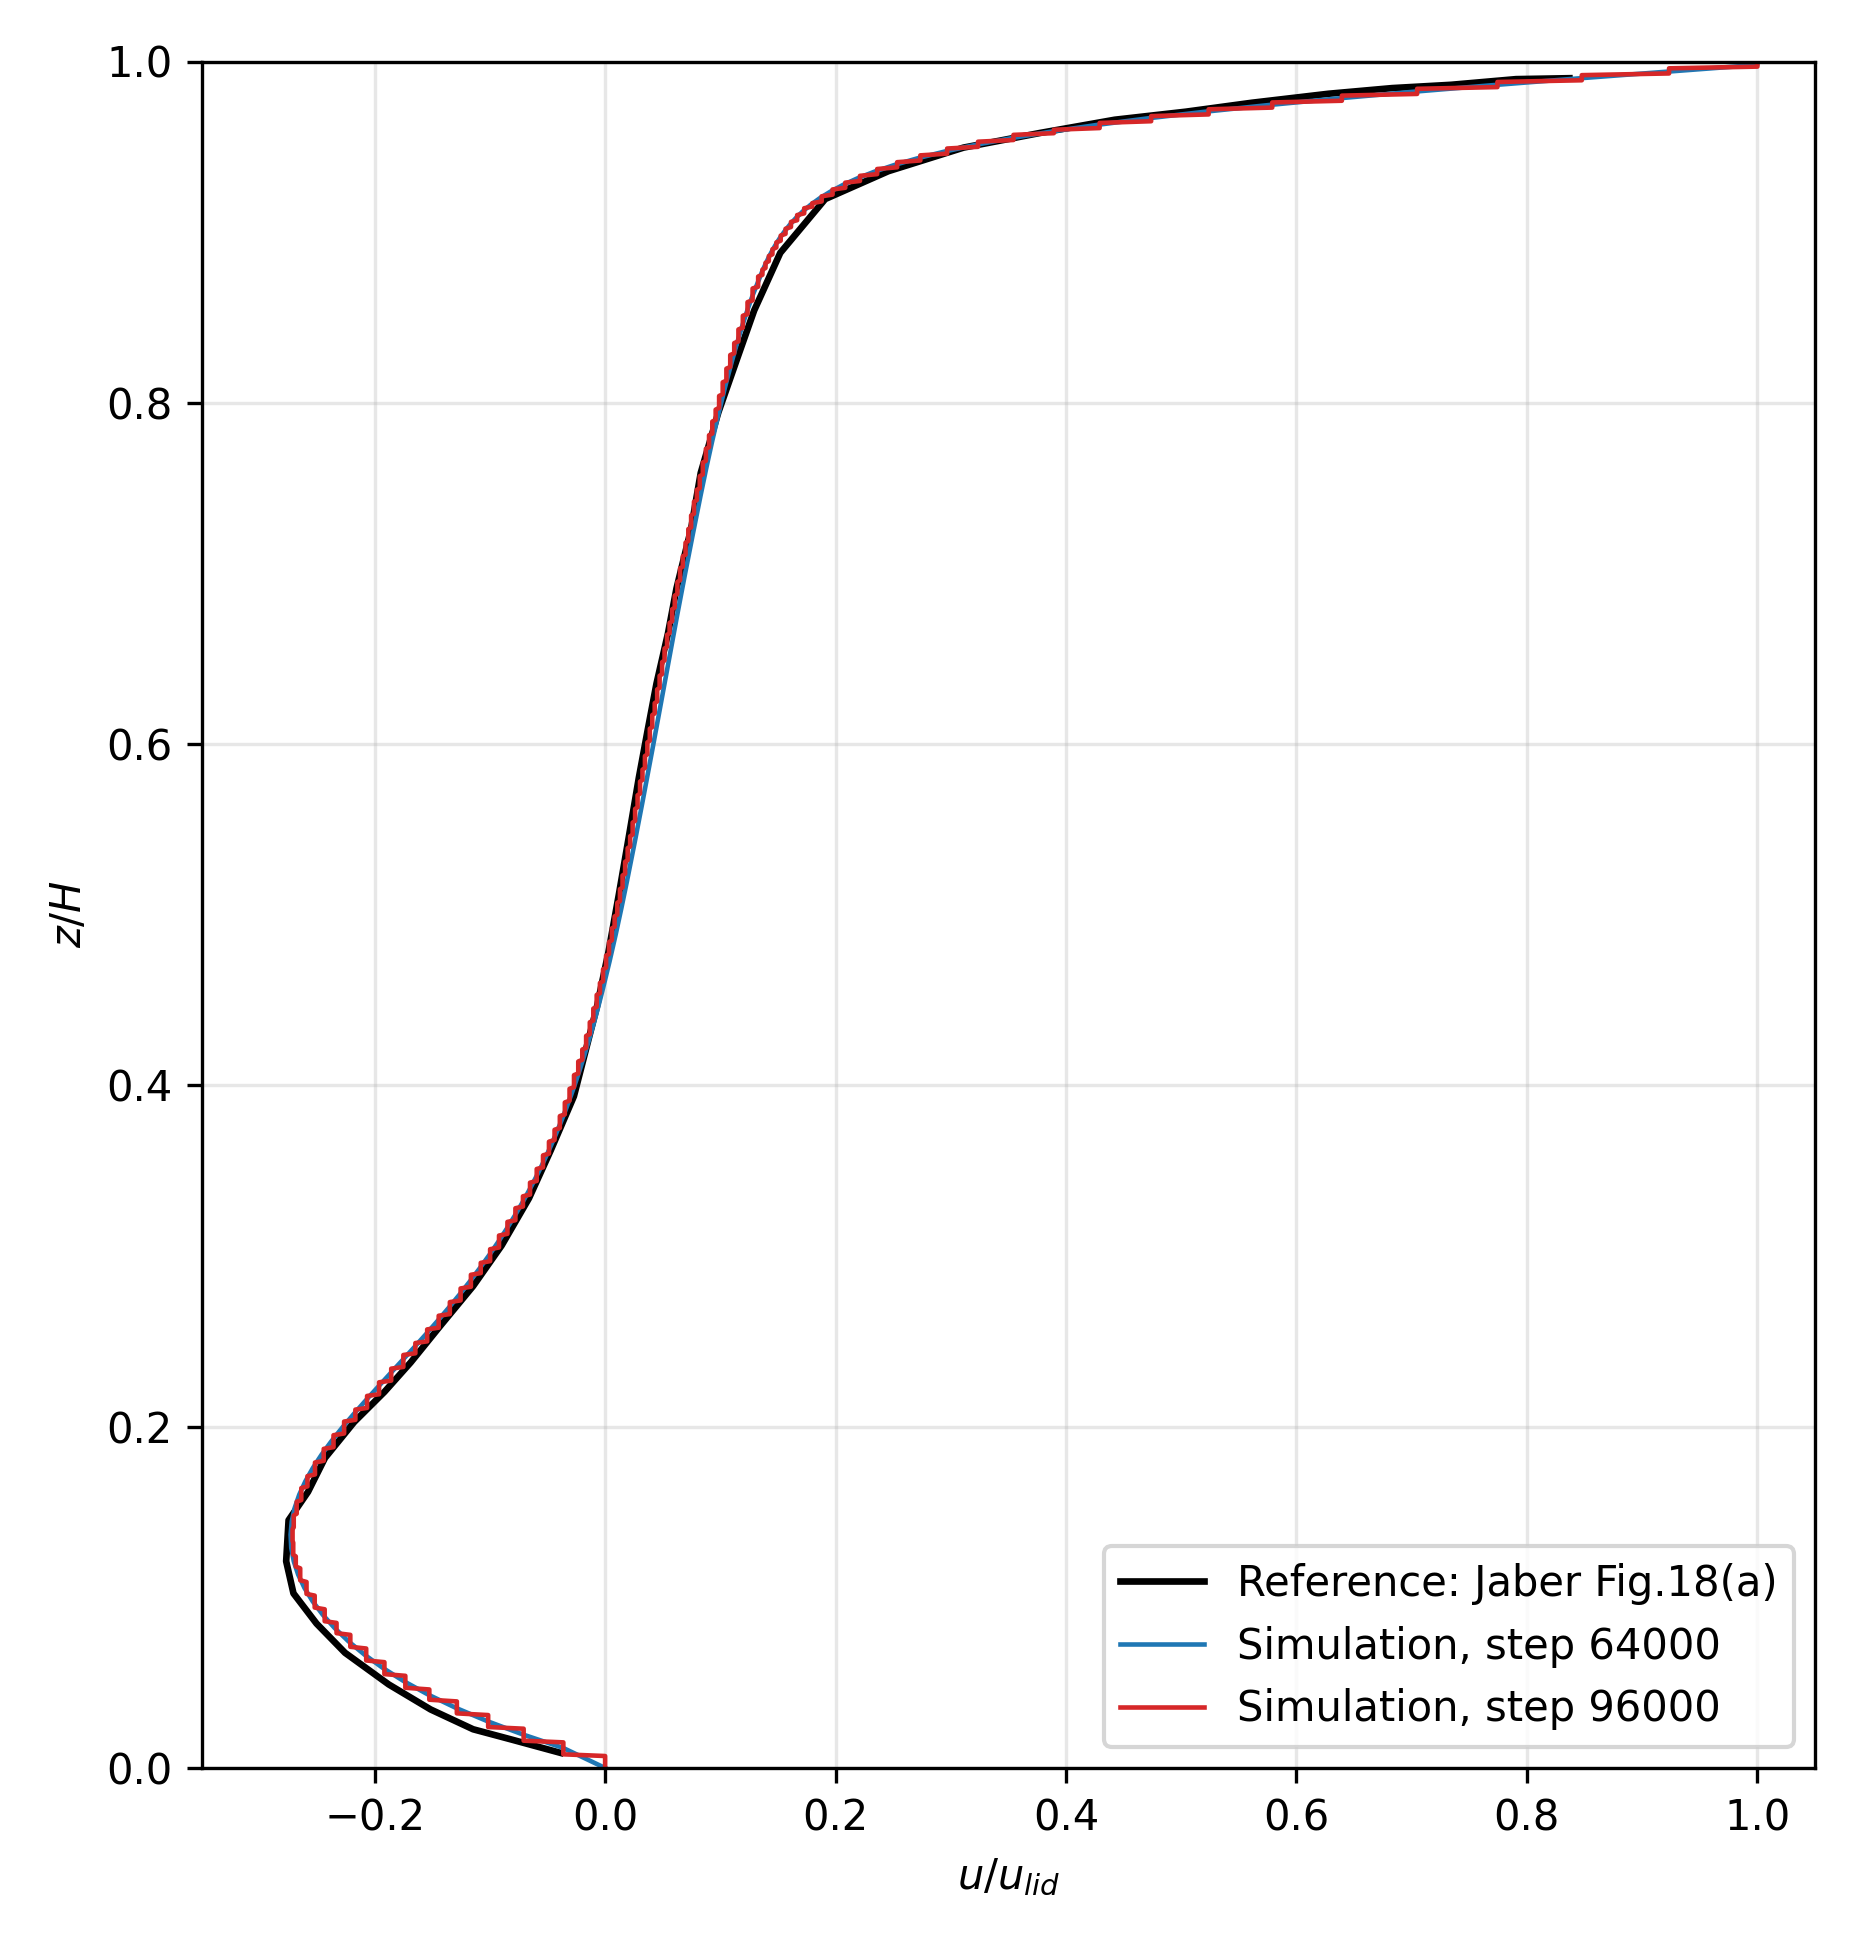
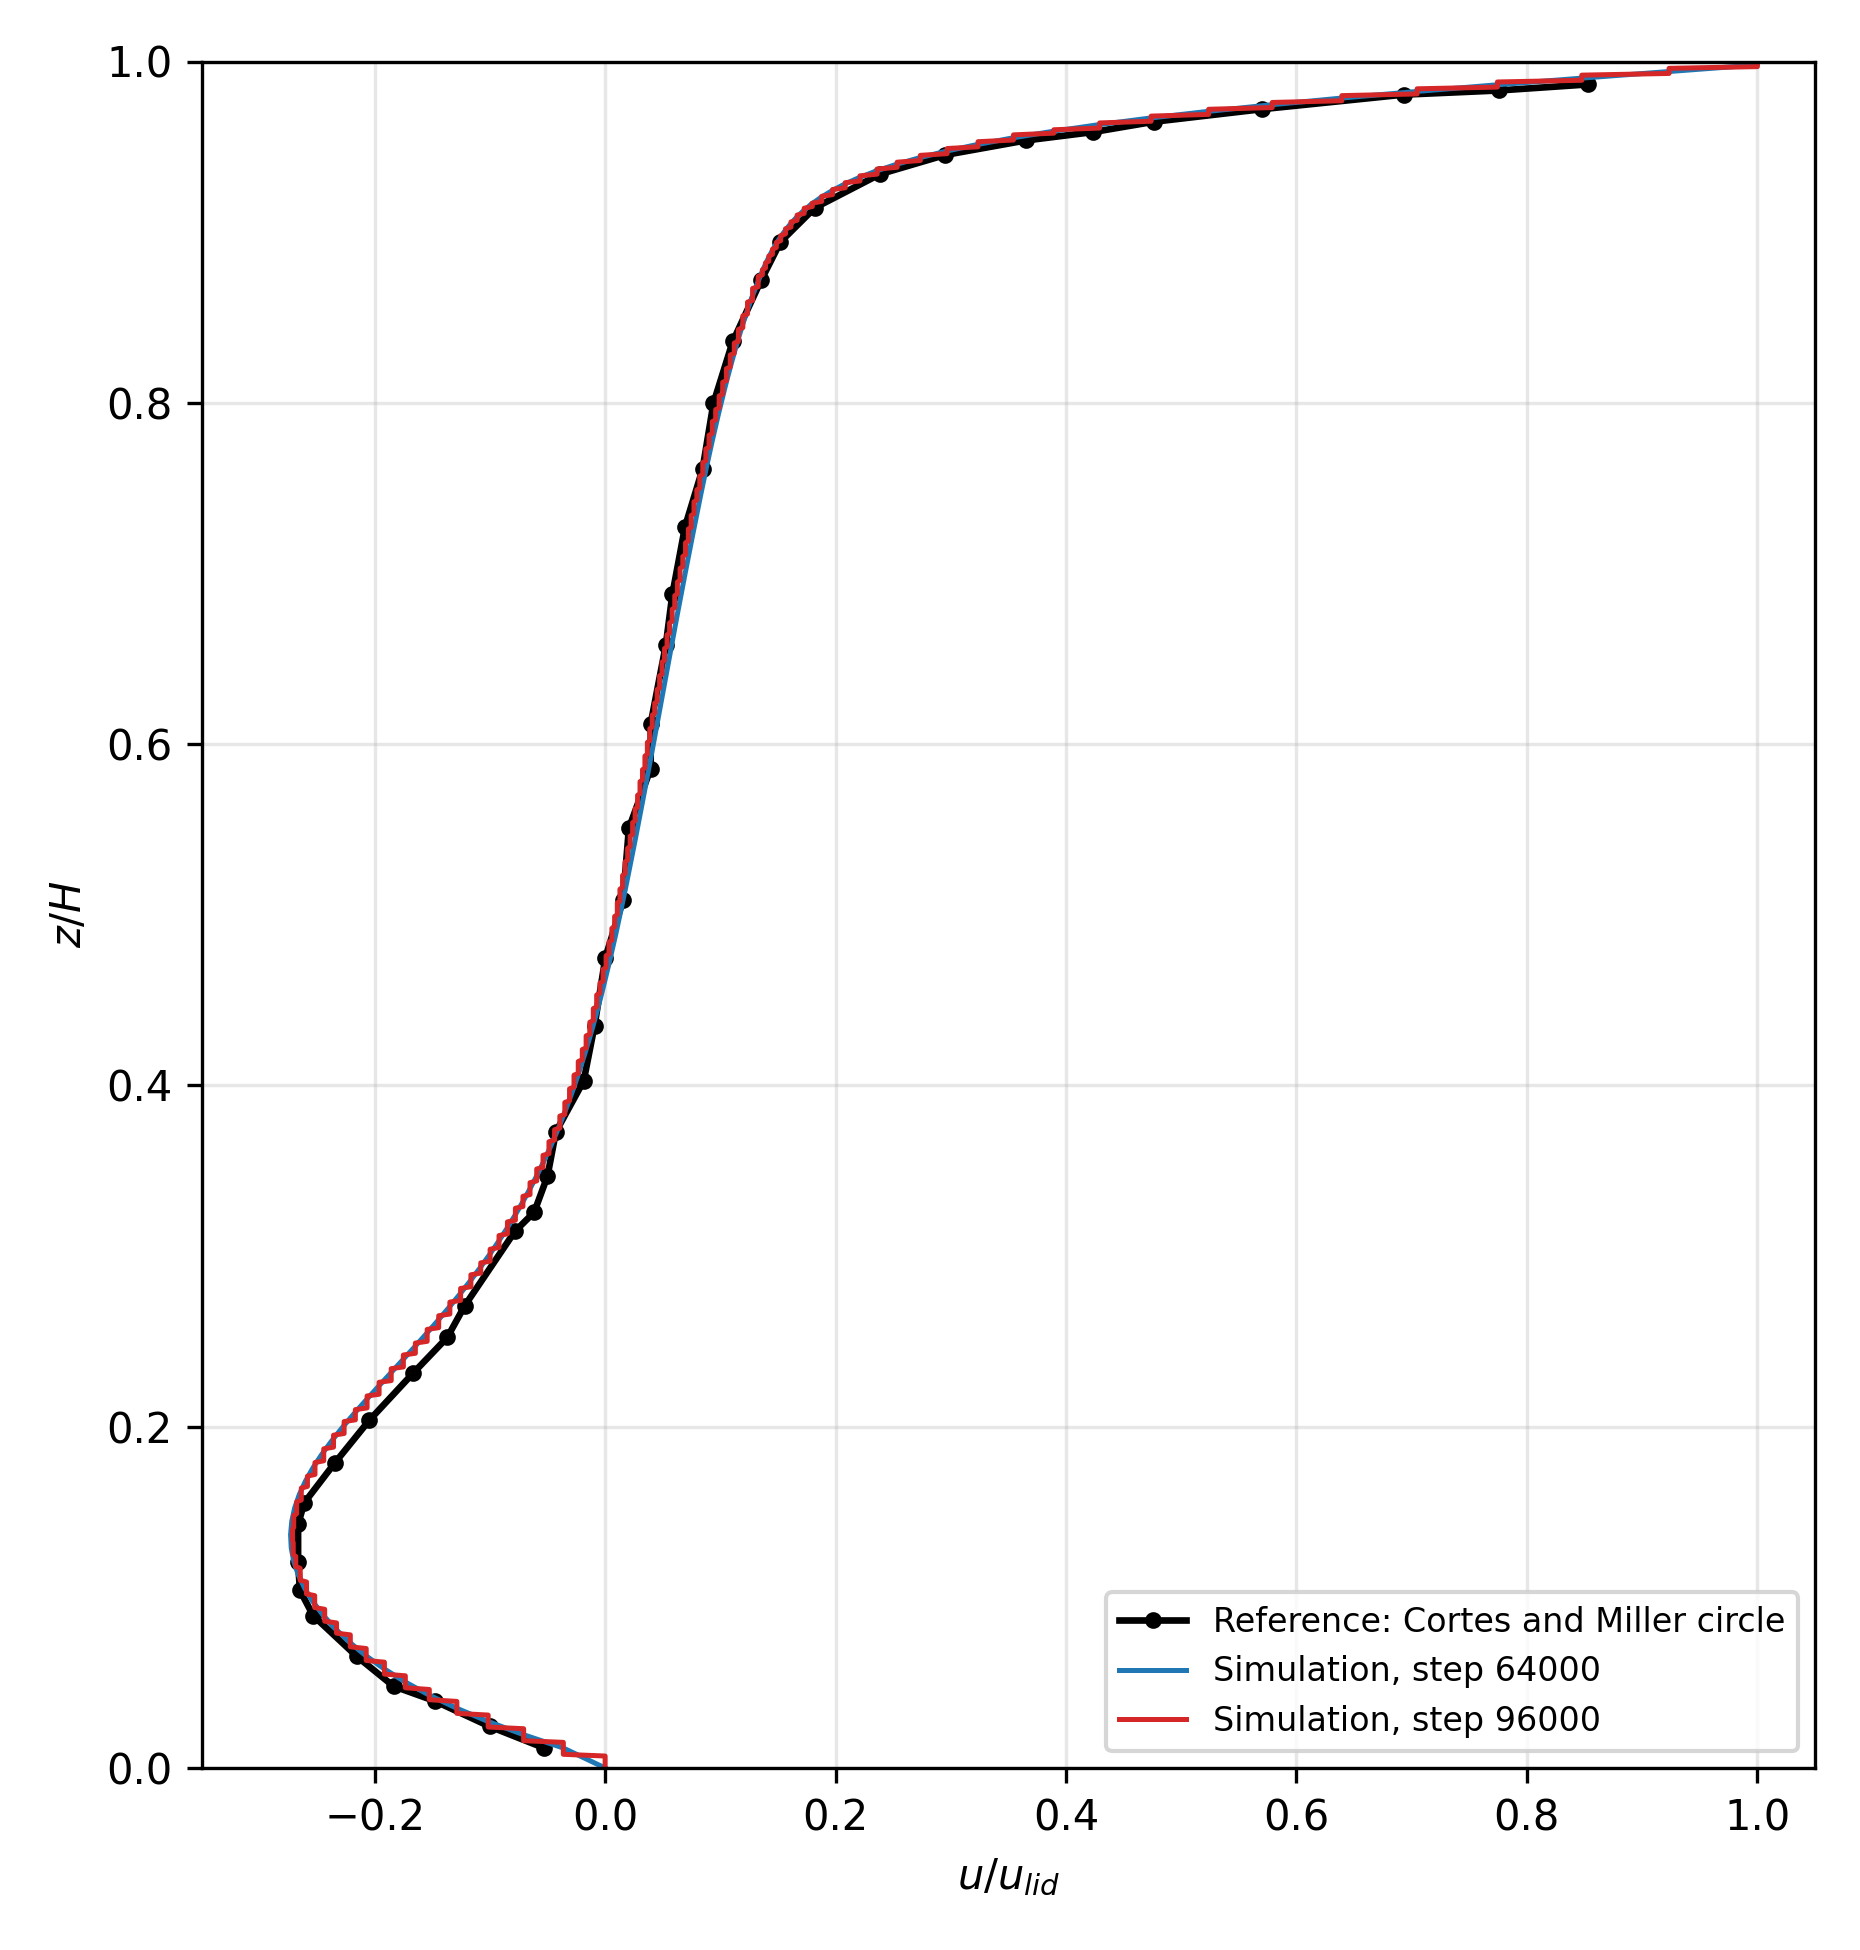
before codex

diff --git a/projects/3Dcases/Computing_performance_test/BOX3D_OSI/data_post_processing/compare_fig18a.py b/projects/3Dcases/Computing_performance_test/BOX3D_OSI/data_post_processing/compare_fig18a.py
@@ -1,0 +1,48 @@
+#!/usr/bin/env python3
+import csv
+from pathlib import Path
+
+import matplotlib.pyplot as plt
+
+HERE = Path(__file__).resolve().parent
+
+def read_manual():
+    with (HERE / "paper_fig18a.csv").open(newline="") as f:
+        rows = list(csv.DictReader(f))
+    return [(float(r["z_over_H"]), float(r["u_over_ulid"])) for r in rows]
+
+def read_machine():
+    out = {}
+    with (HERE / "fig18a_velocity_profiles.csv").open(newline="") as f:
+        for r in csv.DictReader(f):
+            out.setdefault(r["series"], []).append((float(r["z"]), float(r["u_over_ulid"])))
+    return {k: sorted(v) for k, v in out.items()}
+
+def interp(points, z):
+    for (z0, u0), (z1, u1) in zip(points, points[1:]):
+        if z0 <= z <= z1:
+            t = (z - z0) / (z1 - z0)
+            return u0 + t * (u1 - u0)
+    return None
+
+manual = sorted(read_manual())
+machine = read_machine()
+fig, ax = plt.subplots(figsize=(6, 6.5))
+ax.plot([u for z, u in manual], [z for z, u in manual], "k-", lw=1.8, label="Manual extraction")
+colors = {"AMR_triangle": "#d62728", "Cortes_and_Miller_circle": "#1f77b4"}
+for name, points in machine.items():
+    ax.scatter([u for z, u in points], [z for z, u in points], s=18, alpha=.8,
+               color=colors.get(name), label=f"Machine: {name} ({len(points)} pts)")
+    errors = []
+    for z, u in points:
+        ref = interp(manual, z)
+        if ref is not None:
+            errors.append(abs(u - ref))
+    print(f"{name}: n={len(points)}, MAE={sum(errors)/len(errors):.6g}, maxAE={max(errors):.6g}")
+ax.set_xlabel(r"$u/u_{lid}$")
+ax.set_ylabel(r"$z/H$")
+ax.set_xlim(-.35, 1.05); ax.set_ylim(0, 1)
+ax.grid(True, alpha=.3); ax.legend(fontsize=8); fig.tight_layout()
+out = HERE / "Re1000_fig18a_manual_vs_machine.png"
+fig.savefig(out, dpi=300)
+print(out)

diff --git a/CLAUDE.md b/CLAUDE.md
@@ -1,105 +1,34 @@
 # 本仓库的 AI 协作指南
 
-本仓库包含基于 AMReX 的 LBM + AMR 数值模拟算例。主要开发模式以算例为中心：大多数工作应在 `projects/` 下的具体算例目录中进行，而不是在仓库根目录进行。
+用户可见的仓库结构、典型算例布局、构建命令和 Python 后处理用法以根
+[`README.md`](README.md) 为准。本文件只定义 Agent 的执行约束。
 
-## 开始前请先阅读
+## 开始任务
 
-开始一项新任务时，请按以下顺序阅读文件：
+1. 阅读根 `README.md`，再定位目标算例。
+2. 依次阅读 `<case>/src/main.cpp`、`<case>/src/AmrCoreLBM.H/.cpp`、
+   `<case>/config/inputs` 和 `<case>/config/GNUmakefile`；涉及构建或提交时再读
+   `<case>/scripts/compile.sh` 或 `scripts/compile.sh`、`<case>/scripts/submit.sh`。
+3. 除非任务明确涉及多个算例，否则将改动限制在一个具体算例内。圆柱流默认算例是
+   `projects/Cylindertest/Cylinder2D_IDFtest/`。
 
-1. `README.md`
-2. `projects/` 下的目标算例目录
-3. `<case>/src/main.cpp`
-4. `<case>/src/AmrCoreLBM.H` 和 `<case>/src/AmrCoreLBM.cpp`
-5. `<case>/config/inputs`
-6. `<case>/config/GNUmakefile`
-7. 如果任务涉及构建行为，再阅读 `scripts/compile.sh`
+## 不可省略的约束
 
-对于圆柱流相关工作，推荐将 `projects/Cylindertest/Cylinder2D_IDFtest/` 作为默认算例。
+- `CLAUDE.md` 是规则真身；根 `AGENTS.md` 必须保持为指向它的软链。
+- 修改前必须执行 `git add -A && git commit -m "before codex"`。若没有内容可提交可以
+  继续；其他提交失败则停止并报告。
+- 已跟踪的可执行文件、日志、`.dat`、`logs/` 和生成数据均可能是有效仓库内容，不能
+  按常规构建残留假定删除。
+- 修改物理模型、时间推进、输出频率或 AMR 行为前先读 `config/inputs`；构建和运行行为
+  分别以对应编译/提交脚本及 `config/GNUmakefile` 为准。
+- 运行所有算例的 Python 后处理、分析或绘图脚本时，使用仓库根 `.venv/bin/python`。
+  它是全仓库共用环境，不应改用系统 Python 或假定算例有独立 `.venv`；缺依赖时只在该
+  环境中补齐。图表必须标注输入数据、步数、归一化方式和参考数据来源。
 
-## 仓库结构
+## 现场注意事项
 
-- `amrex-26.01/`：当前主要使用的 AMReX 源码树
-- `amrex-23.09/`：为对比或兼容性而保留的旧版 AMReX
-- `amrex-26.06/`：上游版本对照；BOX3D 已采用该版本，其他算例是否迁移以各自 `config/GNUmakefile` 为准
-- `projects/2Dcases/`、`projects/3Dcases/`、`projects/Cylindertest/`：数值模拟算例
-- `projects/2Dshared/`、`projects/3Dshared/`：共享封装或模板
-- `scripts/`：仓库级编译、同步和清理工具
-- `后处理脚本/`：后处理脚本和说明
-
-典型算例的目录结构：
-
-- `src/`：主要源代码
-- `config/`：`GNUmakefile`、`Make.package`、`inputs`，通常还包括 `compile_commands.json`
-- `scripts/`：算例本地的编译、清理和提交封装脚本
-- `data/`、`logs/`、`tmp_build_dir/`：生成的输出和构建产物
-
-## 主要代码文件的职责
-
-- `src/main.cpp`：AMReX 初始化、参数读取、时间推进和输出触发
-- `src/AmrCoreLBM.*`：AMR/LBM 驱动逻辑、数据管理、时间推进、网格加密和诊断
-- `src/Kernels.H`：性能敏感的计算核，以及边界、碰撞和迁移辅助函数
-- `src/D2Q9.H` 或 `src/D3Q19.H`：格子常量和离散速度模板定义
-- `src/LagrangeParticleContainer.*`：粒子或浸没边界类型的耦合（如果算例中存在）
-
-## 构建与运行流程
-
-优先在目标算例目录内操作。
-
-编译：
-
-```bash
-./scripts/compile.sh
-```
-
-在集群上提交：
-
-```bash
-dsub -s ./scripts/submit.sh
-```
-
-一步完成编译和提交：
-
-```bash
-./scripts/compile.sh --submit
-```
-
-重要说明：
-
-- 仓库根目录的 `scripts/compile.sh` 是实际的构建入口；各算例本地的编译脚本只是封装。
-- 构建脚本依赖 HPC 环境，并且可能跳转到 `whshare-agent-1`。
-- 提交脚本依赖 DSUB、MPI、CUDA 模块以及集群特定的主机环境配置。
-- `config/GNUmakefile` 是每个算例构建设置的主要来源，其中包括 `DIM`、`USE_MPI`、`USE_CUDA` 和 `AMREX_HOME` 等配置。
-
-## AI 智能体工作约定
-
-- 本仓库已确认以 `CLAUDE.md` 为规则真身，`AGENTS.md` 必须是指向它的软链；Codex 通过该软链读取规则。运行 `neat-freak` 时不得再建议反转这一关系。
-- 从一个具体算例开始，除非任务明确涉及多个算例，否则应始终限制在该算例的范围内。
-- 将已纳入版本控制的输出视为本仓库的正常内容：可执行文件、`*-out.log`、`.dat`、`logs/` 和生成的数据可能已经存在。
-- 不要假设本仓库具有常规的单元测试布局；验证方式通常是目标算例成功构建，或数值模拟行为符合预期。
-- 除非专门指出，否则修改任何代码前，必须先运行 `git add -A` 和 `git commit -m "before codex"`，创建供审查使用的基线提交。
-- 如果 `git commit -m "before codex"` 提示没有内容可提交，则无需创建提交并可继续工作。
-- 如果基线提交因其他原因失败，必须在编辑文件前停止并报告失败情况。
-- 在修改物理模型、时间推进、输出频率或 AMR 行为前，优先阅读 `config/inputs`。
-- 如果任务涉及编译行为，请检查 `scripts/compile.sh` 和目标算例的 `config/GNUmakefile`。
-- 如果任务涉及运行和提交行为，请检查目标算例的 `scripts/submit.sh`。
-- 仓库根 `.venv` 是所有算例 Python 后处理、数据分析和绘图脚本的统一虚拟环境；
-  运行算例目录中的 Python 脚本时使用仓库根 `.venv/bin/python`，不要依赖系统 Python
-  或假定每个算例目录都有独立 `.venv`。生成图表时注明输入数据、步数、归一化方式和
-  参考数据来源；若 `.venv` 缺少依赖，先在该环境中补齐，不要改用未验证的系统环境。
-
-## 本仓库当前的特别注意事项
-
-- 一些旧文档提到 `tools/sync_projects.py`，但该脚本目前实际位于 `scripts/sync_projects.py`。
-- 本仓库并非只有一个入口点的单一程序库；各个算例可能独立演化并产生差异。
-- 一些以前编写的 AI 指令可能提到 `projects/shared/lbm-core/` 或 `tools/` 等路径；依赖这些路径前必须先核实它们当前是否存在。
-- 仓库根目录的 `scripts/clean.sh` 影响范围较广，可能具有破坏性；运行前必须仔细检查。
-
-## 后续任务默认采用的上下文
-
-除非用户另有说明，否则默认：
-
-- 主要 AMReX 版本为 `amrex-26.01`
-- BOX3D 当前使用 `amrex-26.06` 和 C++20，构建需要 GCC 11 或更新版本
-- 大多数活跃工作位于 `projects/Cylindertest/` 或 `projects/` 下的具体算例目录中
-- 代表性生产算例预期使用 GPU + MPI 构建
-- `config/inputs` 和 `src/main.cpp` 是理解算例运行行为最快的切入点
+- 本仓库没有统一单元测试布局；验证通常是目标算例构建成功或数值行为符合预期。
+- `scripts/sync_projects.py` 是现役同步脚本；引用旧的 `tools/sync_projects.py` 前先核实。
+- `scripts/clean.sh` 影响范围广，运行前必须检查其目标。
+- 默认主 AMReX 为 `amrex-26.01`；BOX3D 使用 `amrex-26.06`、C++20 和 GCC 11+。
+  代表性生产算例预期采用 GPU + MPI。

diff --git a/README.md b/README.md
@@ -115,7 +115,21 @@ dsub -s ./scripts/submit.sh
 3. 运行日志通常可在算例目录的 `*.log` 或 `logs/` 下查看。
 4. 结果数据通常输出到 `data/`。
 
-## 5. 备注
+## 5. Python 后处理环境
+
+仓库根 `.venv/` 是所有算例共用的 Python 虚拟环境，供后处理、数据分析和绘图脚本
+使用。算例目录不需要各自维护 `.venv`，也不应依赖系统 Python 的包集合。
+
+从仓库根调用：
+
+```bash
+.venv/bin/python <case>/data_post_processing/script.py
+```
+
+从任意算例目录调用时，先定位仓库根，或使用相对路径调用其 `.venv/bin/python`。生成的
+图表应记录输入数据、步数、归一化方式和参考数据来源，避免与其他配置或历史作业混淆。
+
+## 6. 开发备注
 
 - 本仓库包含多个算例并行演化，建议每个算例目录维护独立的 `.clangd` 与 `config/compile_commands.json`，减少跨算例语义干扰。
 - 使用根目录 `learnamerx.code-workspace` 切换多个算例时，`clangd.arguments` 中的 `--query-driver` 路径必须以逗号分隔。生成数据库后应确认编译器、C++ 标准和 `AMREX_HOME` 与该算例一致，再重启 clangd。
